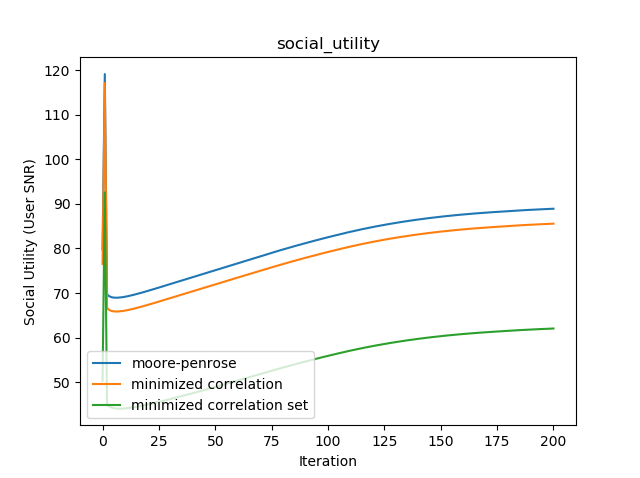
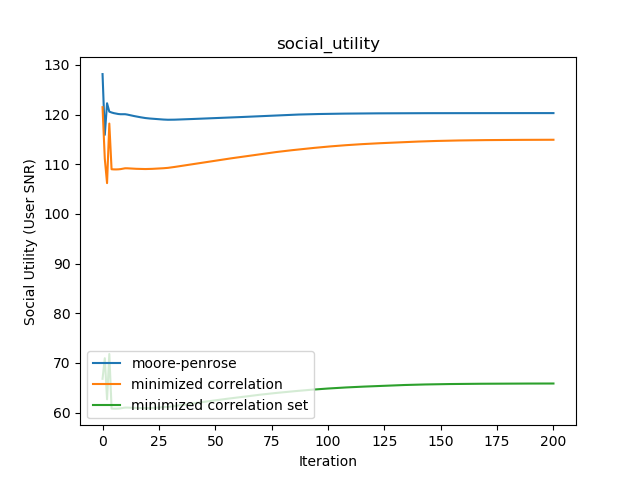
updating figures for meeting

diff --git a/optimization_work/distributed_debug.py b/optimization_work/distributed_debug.py
@@ -11,10 +11,10 @@ first setup the network according using the het_net class then consolidate all o
 
 def test_dist_debug():
     num_users = 5
-    num_antenna = 6
+    num_antenna = 20
     step_size = 1e-2
     power_limit = 5
-    network = het_net.Het_Network(5, 40, num_users, num_antenna, 10, power_limit, power_vector_setup=True, random=False)
+    network = het_net.Het_Network(5, 50, num_users, num_antenna, 10, power_limit, power_vector_setup=True, random=False)
     # network.update_beam_formers()
     min_corr = copy.deepcopy(network)
     # min_corr.change_power_limit(10)

diff --git a/documentation/readmes/results.md b/documentation/readmes/results.md
@@ -6,7 +6,7 @@
 
 ![Increasing FCBS](figures/results.png)
 
-Details: 2 users / basestation, 4 antenna / basestation, 20 macro users (Original use)
+Details: 5 users / basestation, 6 antenna / basestation, 40 macro users (Original use)
 
 ![Convergence](figures/convergence.png)
 
